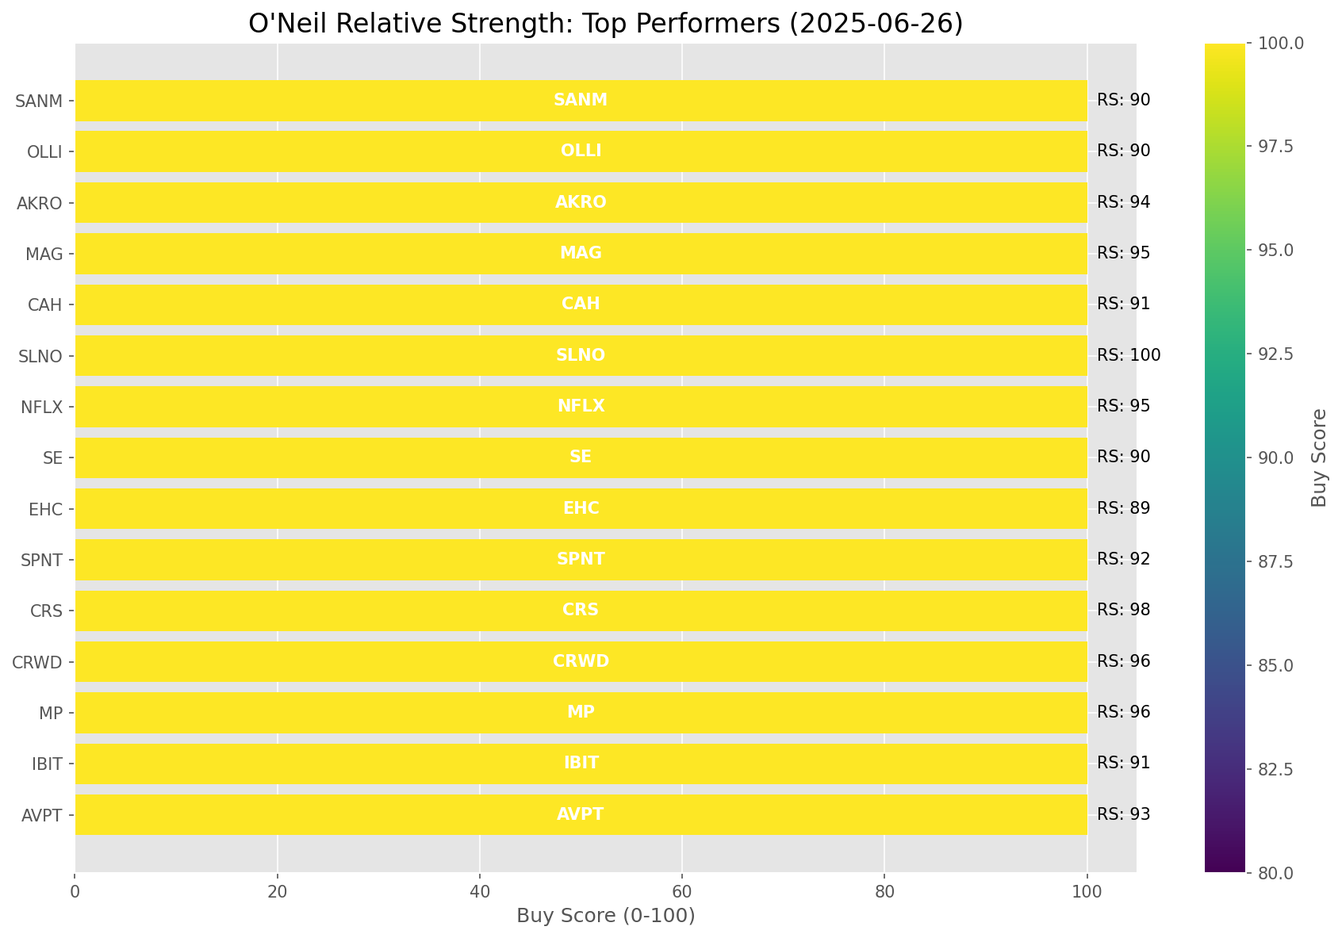
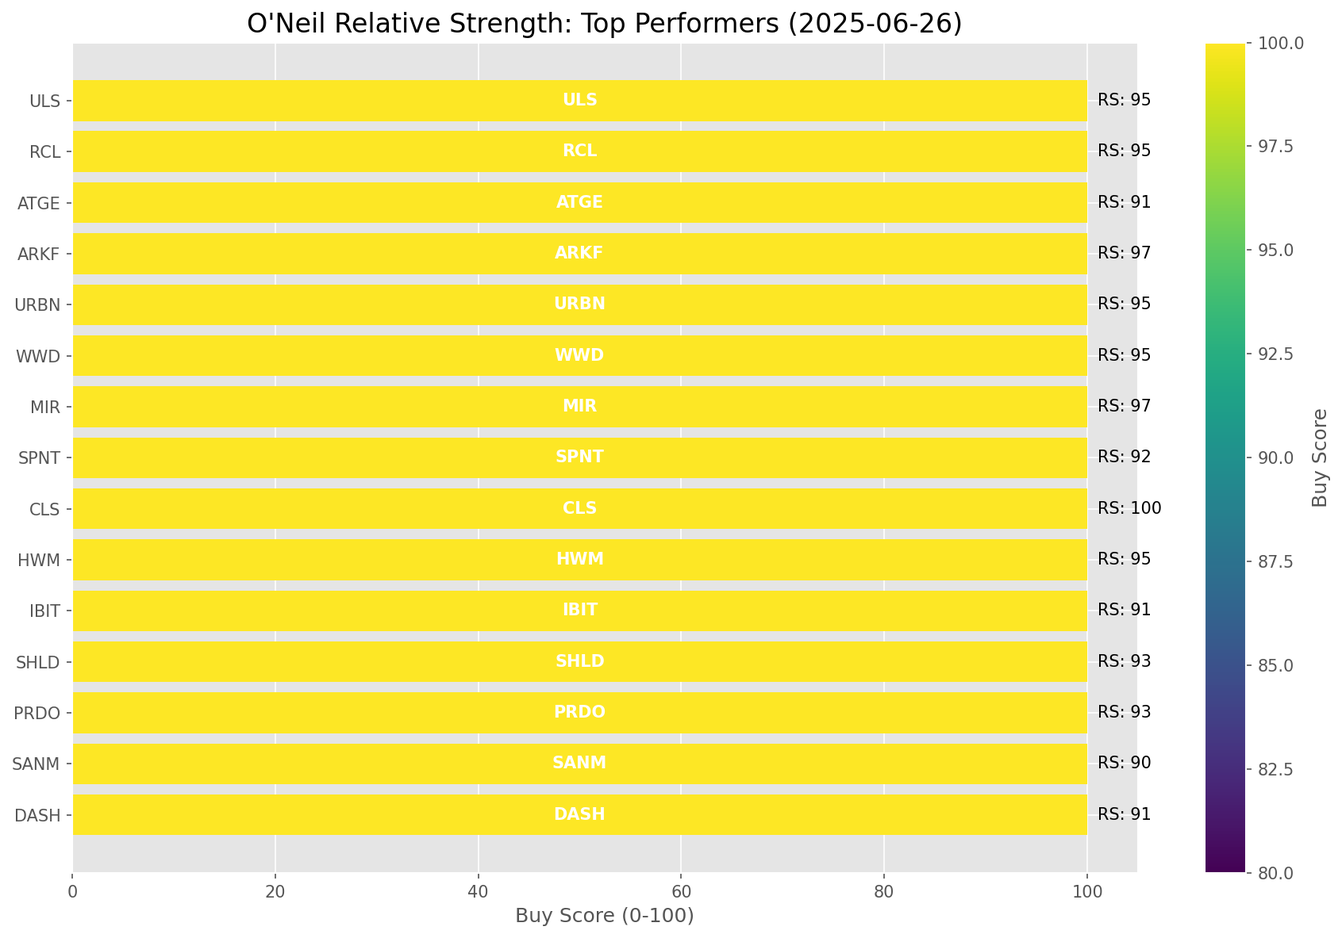
Add market report for 2025-06-26

diff --git a/oneil_relative_strength_report_2025-06-26.md b/oneil_relative_strength_report_2025-06-26.md
@@ -51,8 +51,8 @@ Based on William O'Neil's Relative Strength Methodology
 |-----|----------|-----------|-------------|--------------|-------|--------|
 | [URA](https://www.tradingview.com/chart/?symbol=URA) | 99.5 | 99.0 | 59.37% | 10d ✓, 50d ✓, 200d ✓ | ↗ | Uranium |
 | [ARKW](https://www.tradingview.com/chart/?symbol=ARKW) | 99.0 | 98.0 | 45.28% | 10d ✓, 50d ✓, 200d ✓ | ↗ | Next Generation Internet |
-| [BLOK](https://www.tradingview.com/chart/?symbol=BLOK) | 98.5 | 97.0 | 40.20% | 10d ✓, 50d ✓, 200d ✓ | ↗ | Blockchain & Cryptocurrency |
 | [ARKF](https://www.tradingview.com/chart/?symbol=ARKF) | 98.5 | 97.0 | 39.73% | 10d ✓, 50d ✓, 200d ✓ | ↗ | Fintech Innovation |
+| [BLOK](https://www.tradingview.com/chart/?symbol=BLOK) | 98.5 | 97.0 | 40.20% | 10d ✓, 50d ✓, 200d ✓ | ↗ | Blockchain & Cryptocurrency |
 | [ARKK](https://www.tradingview.com/chart/?symbol=ARKK) | 98.0 | 96.0 | 37.50% | 10d ✓, 50d ✓, 200d ✓ | ↗ | Innovation |
 | [XLK](https://www.tradingview.com/chart/?symbol=XLK) | 93.0 | 86.0 | 17.61% | 10d ✓, 50d ✓, 200d ✓ | ↗ | Technology |
 | [CIBR](https://www.tradingview.com/chart/?symbol=CIBR) | 91.0 | 82.0 | 14.25% | 10d ✓, 50d ✓, 200d ✓ | ↗ | Cybersecurity |
@@ -79,8 +79,8 @@ Based on William O'Neil's Relative Strength Methodology
 | [DBA](https://www.tradingview.com/chart/?symbol=DBA) | 36.5 | 33.0 | -2.35% | 10d ✗, 50d ✗, 200d ✗ | ↗ | Agriculture |
 | [IBB](https://www.tradingview.com/chart/?symbol=IBB) | 35.3 | 31.0 | -3.15% | 10d ✓, 50d ✓, 200d ✗ | ↘ | Biotechnology |
 | [ITB](https://www.tradingview.com/chart/?symbol=ITB) | 32.8 | 26.0 | -4.85% | 10d ✓, 50d ✓, 200d ✗ | ↘ | Home Construction |
-| [IYR](https://www.tradingview.com/chart/?symbol=IYR) | 28.4 | 37.0 | -1.28% | 10d ✗, 50d ✓, 200d ✗ | ↘ | Real Estate |
 | [DBC](https://www.tradingview.com/chart/?symbol=DBC) | 28.4 | 37.0 | -1.31% | 10d ✗, 50d ✓, 200d ✗ | ↘ | Commodities |
+| [IYR](https://www.tradingview.com/chart/?symbol=IYR) | 28.4 | 37.0 | -1.28% | 10d ✗, 50d ✓, 200d ✗ | ↘ | Real Estate |
 | [XLV](https://www.tradingview.com/chart/?symbol=XLV) | 19.9 | 20.0 | -7.27% | 10d ✓, 50d ✗, 200d ✗ | ↘ | Healthcare |
 | [XLE](https://www.tradingview.com/chart/?symbol=XLE) | 18.9 | 18.0 | -8.56% | 10d ✗, 50d ✓, 200d ✗ | ↘ | Energy |
 | [UUP](https://www.tradingview.com/chart/?symbol=UUP) | 11.5 | 23.0 | -5.86% | 10d ✗, 50d ✗, 200d ✗ | ↘ | U.S. Dollar |
@@ -98,7 +98,7 @@ This table shows the relative strength metrics for different market sectors base
 
 ### **Current Sector Leadership**
 
-The current market leadership is coming from the following sectors: **Uranium, Next Generation Internet, Blockchain & Cryptocurrency**.
+The current market leadership is coming from the following sectors: **Uranium, Next Generation Internet, Fintech Innovation**.
 
 The **Uranium** sector (represented by **URA**) is showing particularly strong relative strength with an RS rating of 99.0 and performance of 59.37% vs. the S&P 500. This sector is trading above its 10-day, 50-day, 200-day moving average(s). Investors should consider focusing on high RS stocks within these leading sectors for potential outperformance.
 
@@ -106,72 +106,73 @@ The **Uranium** sector (represented by **URA**) is showing particularly strong r
 
 ## **Buy Recommendations**
 
-The following 101 stocks show exceptional relative strength:
+The following 102 stocks show exceptional relative strength:
 
 | RS Rating | Buy Score | Current Price | Chart | Name | Ticker |
 |-----------|-----------|---------------|-------|------|--------|
-| 100 | 100 | $84.02 | [Chart](https://www.tradingview.com/chart/?symbol=SLNO) | Soleno Therapeutics, Inc. Common Stock | SLNO |
-| 100 | 100 | $164.16 | [Chart](https://www.tradingview.com/chart/?symbol=SEZL) | Sezzle Inc. Common Stock | SEZL |
-| 100 | 100 | $243.03 | [Chart](https://www.tradingview.com/chart/?symbol=DAVE) | Dave Inc. Class A Common Stock | DAVE |
 | 100 | 100 | $150.15 | [Chart](https://www.tradingview.com/chart/?symbol=CLS) | Celestica, Inc. | CLS |
+| 100 | 100 | $84.52 | [Chart](https://www.tradingview.com/chart/?symbol=HOOD) | Robinhood Markets, Inc. Class A Common Stock | HOOD |
+| 100 | 100 | $84.02 | [Chart](https://www.tradingview.com/chart/?symbol=SLNO) | Soleno Therapeutics, Inc. Common Stock | SLNO |
+| 100 | 100 | $243.03 | [Chart](https://www.tradingview.com/chart/?symbol=DAVE) | Dave Inc. Class A Common Stock | DAVE |
+| 100 | 100 | $164.16 | [Chart](https://www.tradingview.com/chart/?symbol=SEZL) | Sezzle Inc. Common Stock | SEZL |
 | 100 | 100 | $105.00 | [Chart](https://www.tradingview.com/chart/?symbol=RBLX) | Roblox Corporation | RBLX |
 | 100 | 100 | $215.68 | [Chart](https://www.tradingview.com/chart/?symbol=AGX) | Argan, Inc | AGX |
-| 100 | 100 | $84.52 | [Chart](https://www.tradingview.com/chart/?symbol=HOOD) | Robinhood Markets, Inc. Class A Common Stock | HOOD |
-| 99 | 100 | $43.82 | [Chart](https://www.tradingview.com/chart/?symbol=FARO) | Faro Technologies Inc | FARO |
-| 99 | 100 | $161.54 | [Chart](https://www.tradingview.com/chart/?symbol=NRG) | NRG Energy, Inc. | NRG |
-| 99 | 100 | $506.81 | [Chart](https://www.tradingview.com/chart/?symbol=GEV) | GE Vernova Inc. | GEV |
 | 99 | 100 | $144.25 | [Chart](https://www.tradingview.com/chart/?symbol=PLTR) | Palantir Technologies Inc. Class A Common Stock | PLTR |
+| 99 | 100 | $506.81 | [Chart](https://www.tradingview.com/chart/?symbol=GEV) | GE Vernova Inc. | GEV |
 | 99 | 100 | $190.96 | [Chart](https://www.tradingview.com/chart/?symbol=NET) | Cloudflare, Inc. Class A common stock, par value $0.001 per share | NET |
+| 99 | 100 | $161.54 | [Chart](https://www.tradingview.com/chart/?symbol=NRG) | NRG Energy, Inc. | NRG |
+| 99 | 100 | $43.82 | [Chart](https://www.tradingview.com/chart/?symbol=FARO) | Faro Technologies Inc | FARO |
 | 98 | 100 | $273.35 | [Chart](https://www.tradingview.com/chart/?symbol=CRS) | Carpenter Technology Corp | CRS |
 | 98 | 100 | $152.69 | [Chart](https://www.tradingview.com/chart/?symbol=IRTC) | iRhythm Technologies, Inc | IRTC |
 | 98 | 100 | $215.31 | [Chart](https://www.tradingview.com/chart/?symbol=JBL) | Jabil Inc. | JBL |
-| 97 | 100 | $803.95 | [Chart](https://www.tradingview.com/chart/?symbol=AXON) | Axon Enterprise, Inc. Common Stock | AXON |
 | 97 | 100 | $21.53 | [Chart](https://www.tradingview.com/chart/?symbol=MIR) | Mirion Technologies, Inc. | MIR |
-| 97 | 100 | $28.40 | [Chart](https://www.tradingview.com/chart/?symbol=CRK) | Comstock Resources, Inc. | CRK |
 | 97 | 100 | $49.98 | [Chart](https://www.tradingview.com/chart/?symbol=ARKF) | ARK Fintech Innovation ETF | ARKF |
-| 97 | 100 | $291.38 | [Chart](https://www.tradingview.com/chart/?symbol=TLN) | Talen Energy Corporation Common Stock | TLN |
+| 97 | 100 | $28.40 | [Chart](https://www.tradingview.com/chart/?symbol=CRK) | Comstock Resources, Inc. | CRK |
+| 97 | 100 | $803.95 | [Chart](https://www.tradingview.com/chart/?symbol=AXON) | Axon Enterprise, Inc. Common Stock | AXON |
 | 97 | 100 | $151.49 | [Chart](https://www.tradingview.com/chart/?symbol=COOP) | Mr. Cooper Group Inc. Common Stock | COOP |
+| 97 | 100 | $291.38 | [Chart](https://www.tradingview.com/chart/?symbol=TLN) | Talen Energy Corporation Common Stock | TLN |
 | 96 | 100 | $35.99 | [Chart](https://www.tradingview.com/chart/?symbol=MP) | MP Materials Corp. | MP |
 | 96 | 100 | $505.22 | [Chart](https://www.tradingview.com/chart/?symbol=CRWD) | CrowdStrike Holdings, Inc. Class A Common Stock | CRWD |
 | 96 | 100 | $775.90 | [Chart](https://www.tradingview.com/chart/?symbol=SPOT) | Spotify Technology S.A. | SPOT |
-| 96 | 100 | $52.42 | [Chart](https://www.tradingview.com/chart/?symbol=BBW) | Build-A-Bear Workshop, Inc. | BBW |
 | 96 | 100 | $37.85 | [Chart](https://www.tradingview.com/chart/?symbol=AS) | Amer Sports, Inc. | AS |
-| 95 | 100 | $1306.67 | [Chart](https://www.tradingview.com/chart/?symbol=NFLX) | NetFlix Inc | NFLX |
-| 95 | 100 | $21.52 | [Chart](https://www.tradingview.com/chart/?symbol=MAG) | MAG Silver Corp. | MAG |
-| 95 | 100 | $247.55 | [Chart](https://www.tradingview.com/chart/?symbol=WWD) | Woodward, Inc. | WWD |
+| 96 | 100 | $52.42 | [Chart](https://www.tradingview.com/chart/?symbol=BBW) | Build-A-Bear Workshop, Inc. | BBW |
 | 95 | 100 | $176.85 | [Chart](https://www.tradingview.com/chart/?symbol=HWM) | Howmet Aerospace Inc. | HWM |
-| 95 | 100 | $44.60 | [Chart](https://www.tradingview.com/chart/?symbol=DRS) | Leonardo DRS, Inc. Common Stock | DRS |
+| 95 | 100 | $247.55 | [Chart](https://www.tradingview.com/chart/?symbol=WWD) | Woodward, Inc. | WWD |
+| 95 | 100 | $70.66 | [Chart](https://www.tradingview.com/chart/?symbol=URBN) | Urban Outfitters Inc | URBN |
 | 95 | 100 | $295.89 | [Chart](https://www.tradingview.com/chart/?symbol=RCL) | Royal Caribbean Group | RCL |
 | 95 | 100 | $72.17 | [Chart](https://www.tradingview.com/chart/?symbol=ULS) | UL Solutions Inc. | ULS |
+| 95 | 100 | $44.60 | [Chart](https://www.tradingview.com/chart/?symbol=DRS) | Leonardo DRS, Inc. Common Stock | DRS |
 | 95 | 100 | $92.10 | [Chart](https://www.tradingview.com/chart/?symbol=RBRK) | Rubrik, Inc. | RBRK |
+| 95 | 100 | $21.52 | [Chart](https://www.tradingview.com/chart/?symbol=MAG) | MAG Silver Corp. | MAG |
+| 95 | 100 | $1306.67 | [Chart](https://www.tradingview.com/chart/?symbol=NFLX) | NetFlix Inc | NFLX |
+| 94 | 100 | $43.43 | [Chart](https://www.tradingview.com/chart/?symbol=CHWY) | Chewy, Inc. | CHWY |
 | 94 | 100 | $56.28 | [Chart](https://www.tradingview.com/chart/?symbol=AKRO) | Akero Therapeutics, Inc. Common Stock | AKRO |
 | 94 | 100 | $74.33 | [Chart](https://www.tradingview.com/chart/?symbol=CORT) | Corcept Therapeutics Inc. | CORT |
-| 94 | 100 | $43.43 | [Chart](https://www.tradingview.com/chart/?symbol=CHWY) | Chewy, Inc. | CHWY |
-| 93 | 100 | $19.21 | [Chart](https://www.tradingview.com/chart/?symbol=AVPT) | AvePoint, Inc. Class A Common Stock | AVPT |
 | 93 | 100 | $32.40 | [Chart](https://www.tradingview.com/chart/?symbol=PRDO) | Perdoceo Education Corporation | PRDO |
 | 93 | 100 | $60.46 | [Chart](https://www.tradingview.com/chart/?symbol=SHLD) | Global X Defense Tech ETF | SHLD |
+| 93 | 100 | $19.21 | [Chart](https://www.tradingview.com/chart/?symbol=AVPT) | AvePoint, Inc. Class A Common Stock | AVPT |
 | 92 | 100 | $20.88 | [Chart](https://www.tradingview.com/chart/?symbol=SPNT) | SiriusPoint Ltd. | SPNT |
-| 92 | 100 | $23.08 | [Chart](https://www.tradingview.com/chart/?symbol=BTSG) | BrightSpring Health Services, Inc. Common Stock | BTSG |
-| 92 | 100 | $51.96 | [Chart](https://www.tradingview.com/chart/?symbol=INOD) | Innodata Inc. | INOD |
-| 92 | 100 | $104.44 | [Chart](https://www.tradingview.com/chart/?symbol=JCI) | Johnson Controls International plc | JCI |
 | 92 | 100 | $45.12 | [Chart](https://www.tradingview.com/chart/?symbol=BBIO) | BridgeBio Pharma, Inc. Common Stock | BBIO |
+| 92 | 100 | $51.96 | [Chart](https://www.tradingview.com/chart/?symbol=INOD) | Innodata Inc. | INOD |
+| 92 | 100 | $23.08 | [Chart](https://www.tradingview.com/chart/?symbol=BTSG) | BrightSpring Health Services, Inc. Common Stock | BTSG |
+| 92 | 100 | $104.44 | [Chart](https://www.tradingview.com/chart/?symbol=JCI) | Johnson Controls International plc | JCI |
 | 92 | 100 | $40.03 | [Chart](https://www.tradingview.com/chart/?symbol=LTM) | LATAM Airlines Group S.A. American Depositary Shares (each representing two thousand (2,000) shares of Common Stock) | LTM |
+| 91 | 100 | $239.64 | [Chart](https://www.tradingview.com/chart/?symbol=DASH) | DoorDash, Inc. Class A Common Stock | DASH |
 | 91 | 100 | $61.14 | [Chart](https://www.tradingview.com/chart/?symbol=IBIT) | iShares Bitcoin Trust ETF | IBIT |
+| 91 | 100 | $125.38 | [Chart](https://www.tradingview.com/chart/?symbol=ATGE) | Adtalem Global Education Inc. Common Shares | ATGE |
 | 91 | 100 | $165.61 | [Chart](https://www.tradingview.com/chart/?symbol=CAH) | Cardinal Health, Inc. | CAH |
 | 91 | 100 | $27.30 | [Chart](https://www.tradingview.com/chart/?symbol=UVE) | UNIVERSAL INSURANCE HLDG, INC. | UVE |
-| 91 | 100 | $239.64 | [Chart](https://www.tradingview.com/chart/?symbol=DASH) | DoorDash, Inc. Class A Common Stock | DASH |
-| 91 | 100 | $125.38 | [Chart](https://www.tradingview.com/chart/?symbol=ATGE) | Adtalem Global Education Inc. Common Shares | ATGE |
-| 90 | 100 | $158.51 | [Chart](https://www.tradingview.com/chart/?symbol=SE) | Sea Limited American Depositary Shares, each representing one Class A Ordinary Share | SE |
-| 90 | 100 | $133.44 | [Chart](https://www.tradingview.com/chart/?symbol=OLLI) | Ollie's Bargain Outlet Holdings, Inc. Common Stock | OLLI |
 | 90 | 100 | $97.01 | [Chart](https://www.tradingview.com/chart/?symbol=SANM) | Sanmina  Corp | SANM |
-| 90 | 100 | $53.41 | [Chart](https://www.tradingview.com/chart/?symbol=IBKR) | Interactive Brokers Group, Inc. Class A Common Stock | IBKR |
+| 90 | 100 | $133.44 | [Chart](https://www.tradingview.com/chart/?symbol=OLLI) | Ollie's Bargain Outlet Holdings, Inc. Common Stock | OLLI |
 | 90 | 100 | $41.79 | [Chart](https://www.tradingview.com/chart/?symbol=KD) | Kyndryl Holdings, Inc. | KD |
-| 89 | 100 | $121.54 | [Chart](https://www.tradingview.com/chart/?symbol=EHC) | Encompass Health Corporation Common Stock | EHC |
-| 89 | 100 | $27.14 | [Chart](https://www.tradingview.com/chart/?symbol=SRAD) | Sportradar Group AG Class A Ordinary Shares | SRAD |
+| 90 | 100 | $158.51 | [Chart](https://www.tradingview.com/chart/?symbol=SE) | Sea Limited American Depositary Shares, each representing one Class A Ordinary Share | SE |
+| 90 | 100 | $53.41 | [Chart](https://www.tradingview.com/chart/?symbol=IBKR) | Interactive Brokers Group, Inc. Class A Common Stock | IBKR |
 | 89 | 100 | $29.95 | [Chart](https://www.tradingview.com/chart/?symbol=DB) | Deutsche Bank Aktiengesellschaft | DB |
-| 89 | 100 | $36.16 | [Chart](https://www.tradingview.com/chart/?symbol=AHR) | American Healthcare REIT, Inc. | AHR |
+| 89 | 100 | $121.54 | [Chart](https://www.tradingview.com/chart/?symbol=EHC) | Encompass Health Corporation Common Stock | EHC |
 | 89 | 100 | $61.25 | [Chart](https://www.tradingview.com/chart/?symbol=CAKE) | Cheesecake Factory (The) | CAKE |
 | 89 | 100 | $251.00 | [Chart](https://www.tradingview.com/chart/?symbol=GE) | GE Aerospace | GE |
+| 89 | 100 | $36.16 | [Chart](https://www.tradingview.com/chart/?symbol=AHR) | American Healthcare REIT, Inc. | AHR |
+| 89 | 100 | $27.14 | [Chart](https://www.tradingview.com/chart/?symbol=SRAD) | Sportradar Group AG Class A Ordinary Shares | SRAD |
 | 87 | 100 | $63.06 | [Chart](https://www.tradingview.com/chart/?symbol=CHEF) | The Chef's Warehouse Inc | CHEF |
 | 90 | 99 | $48.51 | [Chart](https://www.tradingview.com/chart/?symbol=SIL) | Global X Silver Miners ETF (NEW) | SIL |
 | 89 | 99 | $138.87 | [Chart](https://www.tradingview.com/chart/?symbol=PPA) | Invesco Aerospace & Defense ETF | PPA |
@@ -179,11 +180,11 @@ The following 101 stocks show exceptional relative strength:
 | 86 | 99 | $181.78 | [Chart](https://www.tradingview.com/chart/?symbol=EAT) | Brinker International, Inc. | EAT |
 | 87 | 98 | $74.30 | [Chart](https://www.tradingview.com/chart/?symbol=CTVA) | Corteva, Inc. Common Stock | CTVA |
 | 85 | 98 | $291.93 | [Chart](https://www.tradingview.com/chart/?symbol=IBM) | International Business Machines Corporation | IBM |
-| 86 | 97 | $5596.00 | [Chart](https://www.tradingview.com/chart/?symbol=BKNG) | Booking Holdings Inc. Common Stock | BKNG |
 | 86 | 97 | $184.50 | [Chart](https://www.tradingview.com/chart/?symbol=ITA) | iShares U.S. Aerospace & Defense ETF | ITA |
 | 86 | 97 | $104.78 | [Chart](https://www.tradingview.com/chart/?symbol=FWONK) | Liberty Media Corporation Series C Liberty Formula One Common Stock | FWONK |
-| 85 | 97 | $86.22 | [Chart](https://www.tradingview.com/chart/?symbol=TPR) | Tapestry, Inc. Common Stock | TPR |
+| 86 | 97 | $5596.00 | [Chart](https://www.tradingview.com/chart/?symbol=BKNG) | Booking Holdings Inc. Common Stock | BKNG |
 | 85 | 97 | $309.83 | [Chart](https://www.tradingview.com/chart/?symbol=PODD) | Insulet Corporation | PODD |
+| 85 | 97 | $86.22 | [Chart](https://www.tradingview.com/chart/?symbol=TPR) | Tapestry, Inc. Common Stock | TPR |
 | 84 | 97 | $28.11 | [Chart](https://www.tradingview.com/chart/?symbol=FMS) | Fresenius Medical Care AG | FMS |
 | 84 | 97 | $43.09 | [Chart](https://www.tradingview.com/chart/?symbol=EXEL) | Exelixis Inc | EXEL |
 | 85 | 96 | $76.71 | [Chart](https://www.tradingview.com/chart/?symbol=USFD) | US Foods Holding Corp. | USFD |
@@ -193,23 +194,23 @@ The following 101 stocks show exceptional relative strength:
 | 85 | 95 | $111.25 | [Chart](https://www.tradingview.com/chart/?symbol=SPMO) | Invesco S&P 500 Momentum ETF | SPMO |
 | 84 | 95 | $147.20 | [Chart](https://www.tradingview.com/chart/?symbol=LYV) | Live Nation Entertainment Inc. | LYV |
 | 83 | 95 | $51.36 | [Chart](https://www.tradingview.com/chart/?symbol=MRCY) | Mercury Systems Inc. | MRCY |
-| 82 | 95 | $18.33 | [Chart](https://www.tradingview.com/chart/?symbol=BCS) | Barclays PLC | BCS |
 | 82 | 95 | $283.21 | [Chart](https://www.tradingview.com/chart/?symbol=VRSN) | VeriSign Inc | VRSN |
+| 82 | 95 | $18.33 | [Chart](https://www.tradingview.com/chart/?symbol=BCS) | Barclays PLC | BCS |
 | 85 | 94 | $210.51 | [Chart](https://www.tradingview.com/chart/?symbol=COF) | Capital One Financial | COF |
 | 84 | 94 | $247.22 | [Chart](https://www.tradingview.com/chart/?symbol=WTS) | Watts Water Technologies, Inc. Class A | WTS |
 | 84 | 94 | $28.62 | [Chart](https://www.tradingview.com/chart/?symbol=NTGR) | NETGEAR, Inc. | NTGR |
 | 82 | 94 | $74.97 | [Chart](https://www.tradingview.com/chart/?symbol=CIBR) | First Trust Exchange-Traded Fund II First Trust NASDAQ Cybersecurity ETF | CIBR |
 | 82 | 94 | $79.22 | [Chart](https://www.tradingview.com/chart/?symbol=LLYVK) | Liberty Media Corporation Series C Liberty Live Common Stock | LLYVK |
+| 81 | 94 | $176.16 | [Chart](https://www.tradingview.com/chart/?symbol=TKO) | TKO Group Holdings, Inc. | TKO |
 | 81 | 94 | $43.75 | [Chart](https://www.tradingview.com/chart/?symbol=VIRT) | Virtu Financial, Inc. Class A | VIRT |
 | 81 | 94 | $22.85 | [Chart](https://www.tradingview.com/chart/?symbol=LAUR) | Laureate Education, Inc. Common Stock | LAUR |
-| 81 | 94 | $176.16 | [Chart](https://www.tradingview.com/chart/?symbol=TKO) | TKO Group Holdings, Inc. | TKO |
 | 82 | 92 | $65.43 | [Chart](https://www.tradingview.com/chart/?symbol=SLF) | Sun Life Financial Inc. | SLF |
 | 82 | 92 | $88.39 | [Chart](https://www.tradingview.com/chart/?symbol=NDAQ) | Nasdaq, Inc. Common Stock | NDAQ |
 | 80 | 92 | $43.33 | [Chart](https://www.tradingview.com/chart/?symbol=EWP) | iShares MSCI Spain ETF | EWP |
 | 82 | 91 | $123.21 | [Chart](https://www.tradingview.com/chart/?symbol=FUTU) | Futu Holdings Limited American Depositary Shares | FUTU |
 | 81 | 91 | $89.26 | [Chart](https://www.tradingview.com/chart/?symbol=SEIC) | SEI Investments Co | SEIC |
-| 80 | 91 | $179.96 | [Chart](https://www.tradingview.com/chart/?symbol=RGLD) | Royal Gold Inc | RGLD |
 | 80 | 91 | $223.05 | [Chart](https://www.tradingview.com/chart/?symbol=BAP) | Credicorp LTD | BAP |
+| 80 | 91 | $179.96 | [Chart](https://www.tradingview.com/chart/?symbol=RGLD) | Royal Gold Inc | RGLD |
 | 80 | 89 | $29.13 | [Chart](https://www.tradingview.com/chart/?symbol=PAAS) | Pan American Silver Corp. | PAAS |
 
 ---
@@ -221,31 +222,31 @@ The following 68 stocks show deteriorating relative strength:
 
 | RS Rating | Sell Score | Current Price | Chart | Name | Ticker |
 |-----------|------------|---------------|-------|------|--------|
-| 1 | 100 | $27.72 | [Chart](https://www.tradingview.com/chart/?symbol=HELE) | Helen Of Troy Ltd | HELE |
+| 1 | 100 | $10.09 | [Chart](https://www.tradingview.com/chart/?symbol=HIBS) | Direxion Daily S&P 500 High Beta Bear 3X Shares | HIBS |
+| 1 | 100 | $27.35 | [Chart](https://www.tradingview.com/chart/?symbol=TECS) | Direxion Daily Technology Bear 3x Shares | TECS |
 | 1 | 100 | $14.86 | [Chart](https://www.tradingview.com/chart/?symbol=NVDS) | Investment Managers Series Trust II Tradr 1.5X Short NVDA Daily ETF | NVDS |
 | 1 | 100 | $13.23 | [Chart](https://www.tradingview.com/chart/?symbol=RXST) | RxSight, Inc. Common Stock | RXST |
-| 1 | 100 | $27.35 | [Chart](https://www.tradingview.com/chart/?symbol=TECS) | Direxion Daily Technology Bear 3x Shares | TECS |
-| 1 | 100 | $10.09 | [Chart](https://www.tradingview.com/chart/?symbol=HIBS) | Direxion Daily S&P 500 High Beta Bear 3X Shares | HIBS |
-| 2 | 100 | $11.84 | [Chart](https://www.tradingview.com/chart/?symbol=NRIX) | Nurix Therapeutics, Inc. Common stock | NRIX |
+| 1 | 100 | $27.72 | [Chart](https://www.tradingview.com/chart/?symbol=HELE) | Helen Of Troy Ltd | HELE |
 | 2 | 100 | $25.80 | [Chart](https://www.tradingview.com/chart/?symbol=QID) | ProShares UltraShort QQQ | QID |
-| 3 | 100 | $31.31 | [Chart](https://www.tradingview.com/chart/?symbol=ZD) | Ziff Davis, Inc. Common Stock | ZD |
+| 2 | 100 | $11.84 | [Chart](https://www.tradingview.com/chart/?symbol=NRIX) | Nurix Therapeutics, Inc. Common stock | NRIX |
 | 3 | 100 | $35.40 | [Chart](https://www.tradingview.com/chart/?symbol=SARK) | Investment Managers Series Trust II Tradr 1X Short Innovation Daily ETF | SARK |
+| 3 | 100 | $31.31 | [Chart](https://www.tradingview.com/chart/?symbol=ZD) | Ziff Davis, Inc. Common Stock | ZD |
 | 3 | 100 | $44.85 | [Chart](https://www.tradingview.com/chart/?symbol=LINE) | Lineage, Inc. Common Stock | LINE |
 | 4 | 100 | $11.92 | [Chart](https://www.tradingview.com/chart/?symbol=TZA) | Direxion Daily Small Cap Bear 3x Shares | TZA |
 | 4 | 100 | $14.07 | [Chart](https://www.tradingview.com/chart/?symbol=INMD) | InMode Ltd. Ordinary Shares | INMD |
-| 5 | 100 | $21.91 | [Chart](https://www.tradingview.com/chart/?symbol=AMRK) | A-Mark Precious Metals, Inc. | AMRK |
 | 5 | 100 | $19.67 | [Chart](https://www.tradingview.com/chart/?symbol=BITI) | ProShares Short Bitcoin ETF | BITI |
 | 5 | 100 | $10.63 | [Chart](https://www.tradingview.com/chart/?symbol=OEC) | Orion S.A. | OEC |
+| 5 | 100 | $21.91 | [Chart](https://www.tradingview.com/chart/?symbol=AMRK) | A-Mark Precious Metals, Inc. | AMRK |
+| 6 | 100 | $26.60 | [Chart](https://www.tradingview.com/chart/?symbol=WMG) | Warner Music Group Corp. Class A Common Stock | WMG |
 | 6 | 100 | $22.68 | [Chart](https://www.tradingview.com/chart/?symbol=RYN) | Rayonier Inc. | RYN |
 | 6 | 100 | $70.32 | [Chart](https://www.tradingview.com/chart/?symbol=WD) | Walker & Dunlop, Inc. | WD |
 | 6 | 100 | $24.72 | [Chart](https://www.tradingview.com/chart/?symbol=ASTH) | Astrana Health Inc. Common Stock | ASTH |
-| 6 | 100 | $26.60 | [Chart](https://www.tradingview.com/chart/?symbol=WMG) | Warner Music Group Corp. Class A Common Stock | WMG |
-| 7 | 100 | $17.25 | [Chart](https://www.tradingview.com/chart/?symbol=CODI) | Compass Diversified | CODI |
-| 7 | 100 | $30.64 | [Chart](https://www.tradingview.com/chart/?symbol=FUN) | Six Flags Entertainment Corporation | FUN |
 | 7 | 100 | $20.32 | [Chart](https://www.tradingview.com/chart/?symbol=SPT) | Sprout Social, Inc Class A Common Stock | SPT |
+| 7 | 100 | $30.64 | [Chart](https://www.tradingview.com/chart/?symbol=FUN) | Six Flags Entertainment Corporation | FUN |
 | 7 | 100 | $80.74 | [Chart](https://www.tradingview.com/chart/?symbol=LNTH) | Lantheus Holdings, Inc | LNTH |
-| 8 | 100 | $11.12 | [Chart](https://www.tradingview.com/chart/?symbol=M) | Macy's Inc. | M |
+| 7 | 100 | $17.25 | [Chart](https://www.tradingview.com/chart/?symbol=CODI) | Compass Diversified | CODI |
 | 8 | 100 | $16.26 | [Chart](https://www.tradingview.com/chart/?symbol=MLNK) | MeridianLink, Inc. | MLNK |
+| 8 | 100 | $11.12 | [Chart](https://www.tradingview.com/chart/?symbol=M) | Macy's Inc. | M |
 | 9 | 100 | $17.82 | [Chart](https://www.tradingview.com/chart/?symbol=DJT) | Trump Media & Technology Group Corp. Common Stock | DJT |
 | 9 | 100 | $43.37 | [Chart](https://www.tradingview.com/chart/?symbol=SDOW) | ProShares UltraPro Short Dow 30 | SDOW |
 | 11 | 100 | $29.99 | [Chart](https://www.tradingview.com/chart/?symbol=CRNX) | Crinetics Pharmaceuticals, Inc. | CRNX |
@@ -265,8 +266,8 @@ The following 68 stocks show deteriorating relative strength:
 | 11 | 92 | $12.54 | [Chart](https://www.tradingview.com/chart/?symbol=WSR) | Whitestone REIT | WSR |
 | 12 | 92 | $130.68 | [Chart](https://www.tradingview.com/chart/?symbol=ICUI) | ICU Medical Inc | ICUI |
 | 21 | 92 | $29.83 | [Chart](https://www.tradingview.com/chart/?symbol=RNA) | Avidity Biosciences, Inc. Common Stock | RNA |
-| 17 | 91 | $137.39 | [Chart](https://www.tradingview.com/chart/?symbol=LSTR) | Landstar System Inc | LSTR |
 | 17 | 91 | $100.05 | [Chart](https://www.tradingview.com/chart/?symbol=CROX) | Crocs, Inc. | CROX |
+| 17 | 91 | $137.39 | [Chart](https://www.tradingview.com/chart/?symbol=LSTR) | Landstar System Inc | LSTR |
 | 13 | 90 | $202.99 | [Chart](https://www.tradingview.com/chart/?symbol=EXP) | Eagle Materials, Inc. | EXP |
 | 22 | 90 | $12.88 | [Chart](https://www.tradingview.com/chart/?symbol=MRTN) | Marten Transport Ltd | MRTN |
 | 15 | 89 | $28.37 | [Chart](https://www.tradingview.com/chart/?symbol=APPN) | Appian Corporation Class A Common Stock | APPN |
@@ -274,7 +275,7 @@ The following 68 stocks show deteriorating relative strength:
 | 18 | 88 | $93.19 | [Chart](https://www.tradingview.com/chart/?symbol=CHRW) | C.H. Robinson Worldwide, Inc. | CHRW |
 | 20 | 87 | $25.83 | [Chart](https://www.tradingview.com/chart/?symbol=ATHM) | Autohome Inc. American Depositary Shares, each representing four Class A Ordinary Shares | ATHM |
 | 25 | 87 | $10.43 | [Chart](https://www.tradingview.com/chart/?symbol=MYI) | BLACKROCK MUNIYIELD QUALITY FUND III, INC. | MYI |
-| 15 | 86 | $291.06 | [Chart](https://www.tradingview.com/chart/?symbol=MOH) | Molina Healthcare, Inc. | MOH |
+| 15 | 85 | $291.06 | [Chart](https://www.tradingview.com/chart/?symbol=MOH) | Molina Healthcare, Inc. | MOH |
 | 18 | 85 | $40.03 | [Chart](https://www.tradingview.com/chart/?symbol=SH) | ProShares Short S&P500 | SH |
 | 17 | 84 | $46.45 | [Chart](https://www.tradingview.com/chart/?symbol=GLPI) | Gaming and Leisure Properties, Inc. | GLPI |
 | 24 | 84 | $14.89 | [Chart](https://www.tradingview.com/chart/?symbol=PLSE) | Pulse Biosciences, Inc Common Stock (DE) | PLSE |
